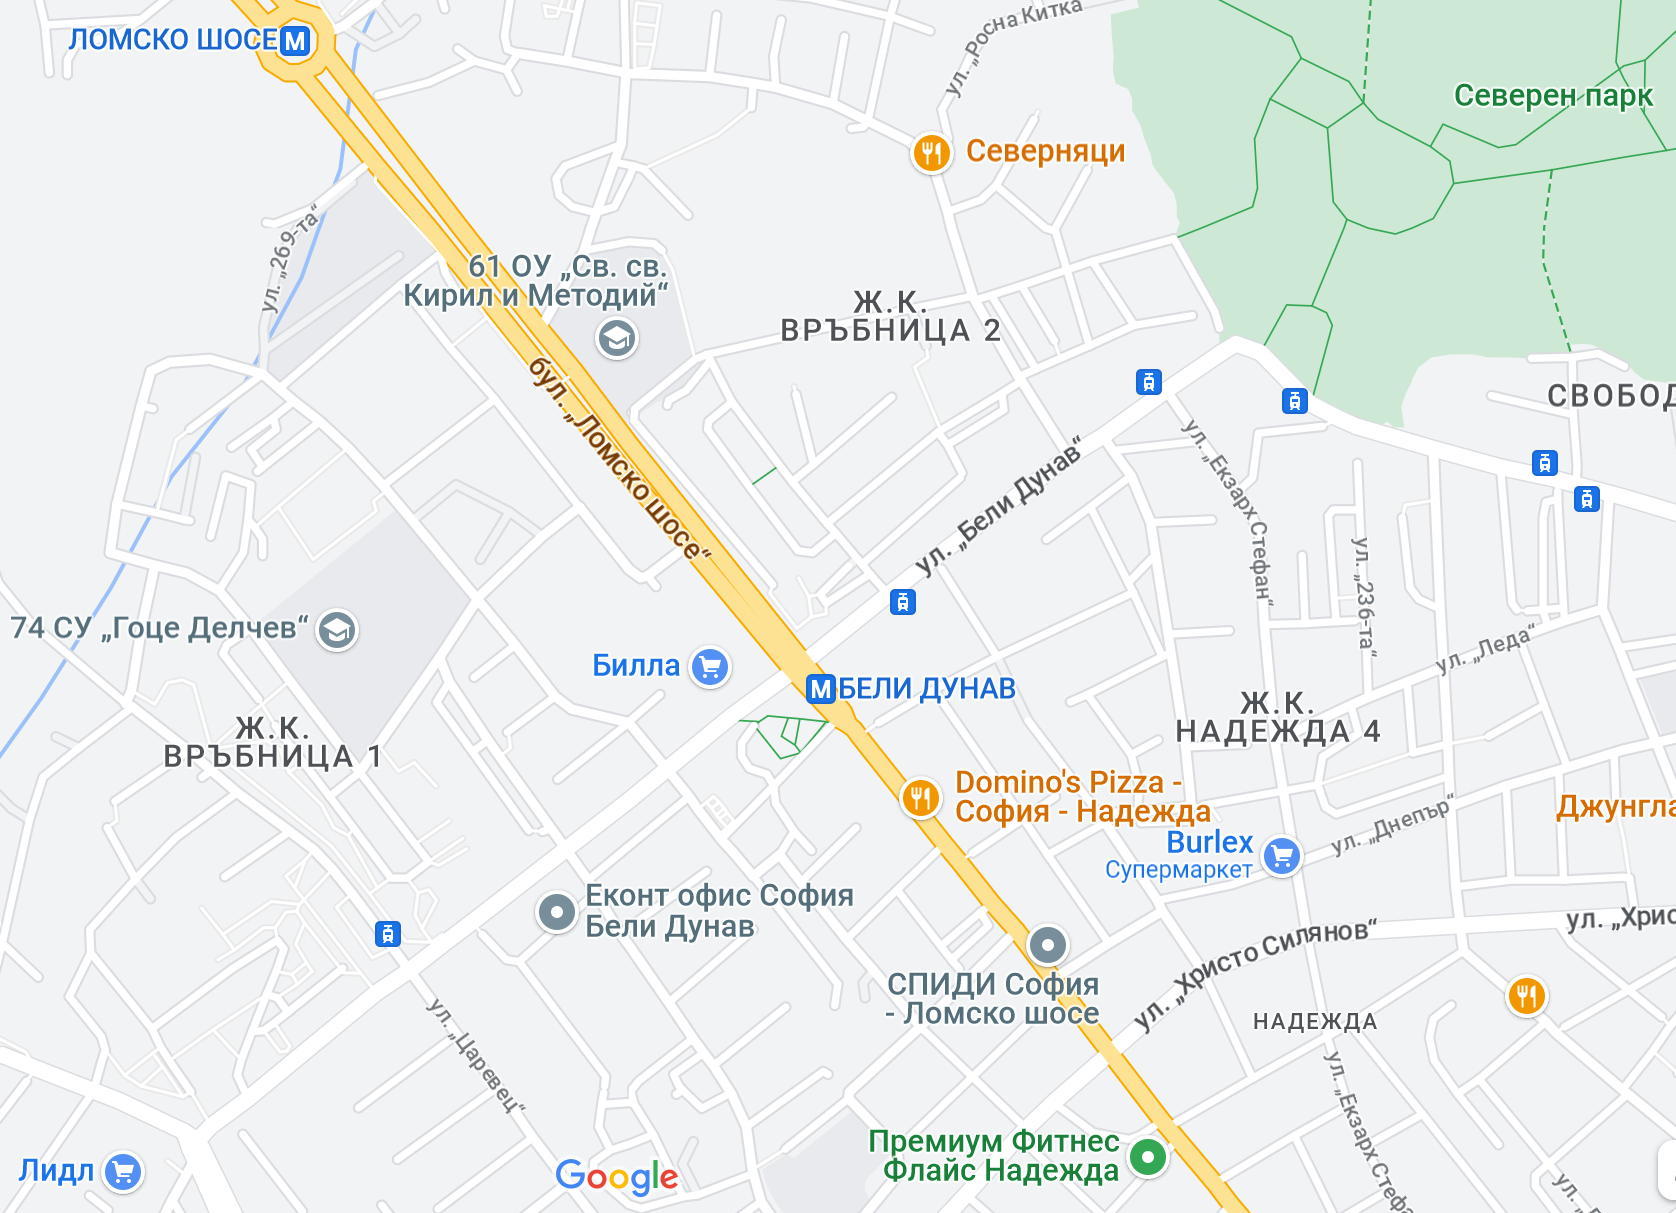
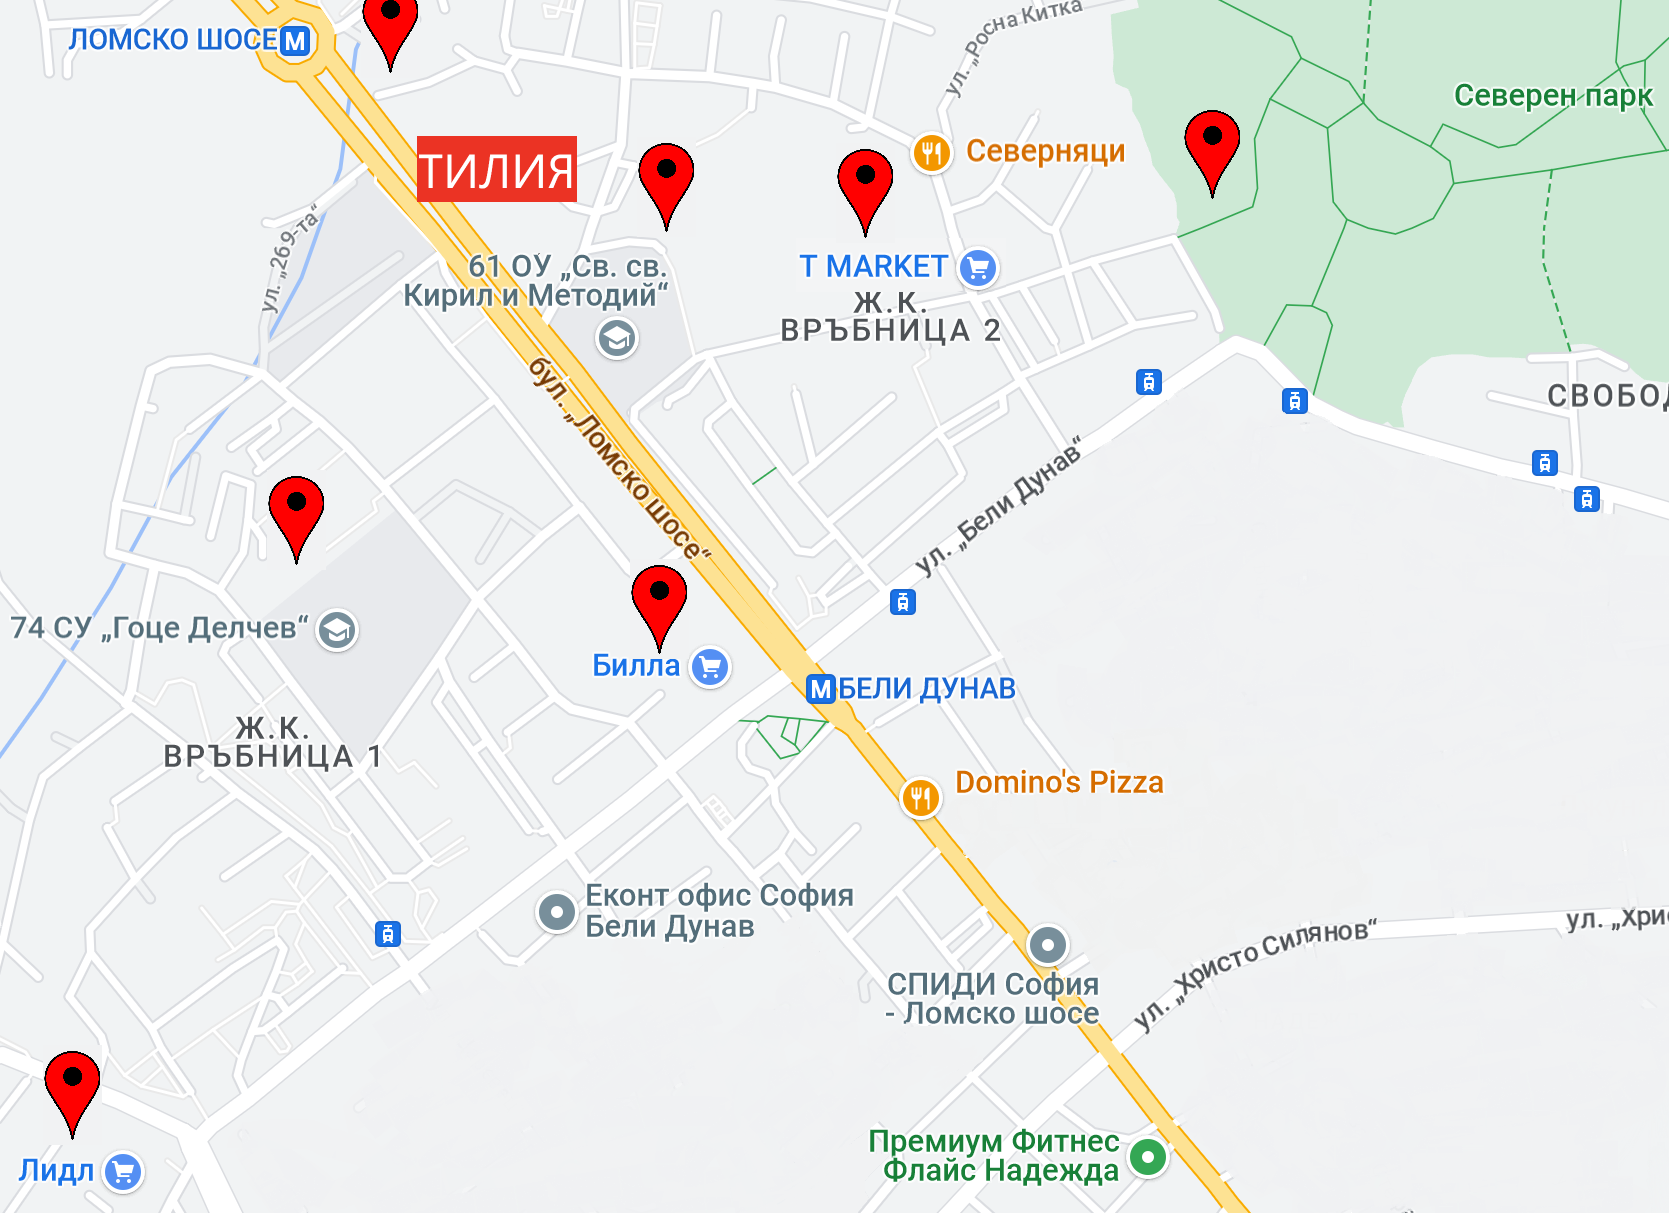
landing page updated

diff --git a/components/WalkingDistance.js b/components/WalkingDistance.js
@@ -1,5 +1,7 @@
 import { lato, noto } from "@/utils/fonts";
 import { motion } from "framer-motion"
+import Link from "next/link";
+import { HiExternalLink } from "react-icons/hi";
 
 const container = {
     hidden: {},
@@ -18,17 +20,15 @@ const treeVariant = {
 const Tree = ({ title, subtitle }) => {
     return (
         <motion.div
-            className="flex flex-col justify-center items-center h-32 w-32 lg:m-5 lg:h-48 lg:w-48 "
+            className="flex flex-col justify-center items-center h-20 w-20 m-5 lg:h-32 lg:w-32"
             variants={treeVariant}
         >
-            <div className={`flex flex-col gap-3`} >
-                <div className="text-xl lg:text-2xl">
-                    {title}
-                </div>
-                <img src="/assets/tilia-basic-tree-nobg.png" alt="" />
-                <div className="text-sm lg:text-base text-tilia-yellow-text font-extrabold">
-                    {subtitle}
-                </div>
+            <div className="text-sm lg:text-xl">
+                {title}
+            </div>
+            <img src="/assets/tilia-basic-tree-nobg.png" alt="" />
+            <div className="text-sm lg:text-base text-tilia-yellow-text font-extrabold">
+                {subtitle}
             </div>
         </motion.div>
     );
@@ -39,7 +39,7 @@ const WalkingDistance = () => {
 
         <div className="flex flex-col gap-10">
             {/* TITLE */}
-            <div className="text-tilia-yellow-text flex flex-row pb-5 gap-5">
+            <div className="text-black flex flex-row p-5 md:p-10 gap-5">
                 <motion.div
                     className={`${noto.className} text-2xl md:text-5xl lg:text-[80px]`}
                     initial="hidden"
@@ -55,20 +55,38 @@ const WalkingDistance = () => {
                 </motion.div>
 
             </div>
+
+            {/* BIG MAP */}
+            <div className=" flex flex-col justify-center items-center gap-5">
+                <Link href={'https://goo.gl/maps/aJhyFrUMrpakMc1d6'} >
+                    <div className="flex flex-row gap-1 rounded-full bg-tilia-yellow-block w-fit h-fit p-3 font-semibold sm:text-xl hover:bg-black hover:text-white transition">
+                        <div>
+                            Виж на Google Maps
+                        </div>
+                        <HiExternalLink size={16} />
+                    </div>
+                </Link>
+                <img src="/maps-big.png" alt="" className="rounded-sm shadow-lg md:h-1/2 md:w-1/2" />
+            </div>
+
+
             {/* TREES */}
             <motion.div
-                className="flex flex-wrap items-center justify-center bg-ixora-yellow gap-20"
+                className="flex flex-wrap items-center justify-center bg-tilia-gray py-10 gap-10 lg:gap-20"
                 variants={container}
                 initial="hidden"
                 whileInView="visible"
                 viewport={{ once: true, amount: 0.2 }}
             >
 
-                <Tree title={'Метро Ломско шосе'} subtitle={'1 мин пеша'} ></Tree>
-                <Tree title={'61 ОУ “Св. св. Кирил и Методий”'} subtitle={'2 мин пеша'} ></Tree>
-                <Tree title={'супермаркет БИЛА'} subtitle={'5 мин пеша'} ></Tree>
-                <Tree title={'супермаркет Т-MARKET'} subtitle={'5 мин пеша'} ></Tree>
-                <Tree title={'супермаркет Кауфланд'} subtitle={'1 км'} ></Tree>
+                <Tree title={'Метростанция Ломско шосе'} subtitle={'200 м'} ></Tree>
+                <Tree title={'61 ОУ “Св. св. Кирил и Методий”'} subtitle={'200 м'} ></Tree>
+                <Tree title={'74 ОУ “Гоце Делчев”'} subtitle={'500 м'} ></Tree>
+                <Tree title={'супермаркет БИЛА'} subtitle={'500 м'} ></Tree>
+
+                <Tree title={'супермаркет Т-MARKET'} subtitle={'700 м'} ></Tree>
+                <Tree title={'Северен парк'} subtitle={'900 м'} ></Tree>
+                <Tree title={'супермаркет ЛИДЛ'} subtitle={'1 км'} ></Tree>
                 <Tree title={'Софийски Университет'} subtitle={'6 метро спирки'} ></Tree>
 
             </motion.div>

diff --git a/components/Timeline.js b/components/Timeline.js
@@ -1,4 +1,4 @@
-import { lato } from "@/utils/fonts";
+import { lato, noto } from "@/utils/fonts";
 import { motion } from "framer-motion"
 
 const container = {
@@ -17,9 +17,9 @@ const treeVariant = {
 
 const Tree = ({ title, subtitle }) => {
     return (
-      <motion.div 
-        className="flex flex-col justify-center items-center h-32 w-32 lg:m-5 lg:h-48 lg:w-48 "  
-        variants={treeVariant}
+        <motion.div
+            className="flex flex-col justify-center items-center h-32 w-32 lg:m-5 lg:h-48 lg:w-48 "
+            variants={treeVariant}
         >
             <div className={`flex flex-col gap-3`} >
                 <div className="text-xl lg:text-2xl">
@@ -30,26 +30,45 @@ const Tree = ({ title, subtitle }) => {
                     {subtitle}
                 </div>
             </div>
-      </motion.div>
+        </motion.div>
     );
-  };
+};
 
 const Timeline = () => {
     return (
-        <motion.div
-            className="flex flex-wrap items-center justify-center bg-ixora-yellow gap-20"
-            variants={container}
-            initial="hidden"
-            whileInView="visible"
-            viewport={{ once: true, amount: 0.2 }}
-        >
+        <div className="flex flex-col gap-5">
+            {/* TITLE */}
+            <div className="text-black flex flex-row p-5 md:p-10">
+                <motion.div
+                    className={`${noto.className} text-2xl md:text-5xl lg:text-[80px]`}
+                    initial="hidden"
+                    whileInView="visible"
+                    transition={{ duration: 0.7, delay: 0.3 }}
+                    variants={{
+                        hidden: { opacity: 0, translateY: 20, skewX: -80, rotateY: 50 },
+                        visible: { opacity: 1, translateY: 0, skewX: 0, rotateY: 0 },
+                    }}
+                >
 
-            <Tree title={'Юни 2021'} subtitle={'Проектиране и регулация'} ></Tree>
-            <Tree title={'Юни 2022'} subtitle={'РС, строителна площадка и първа копка'} ></Tree>
-            <Tree title={'Март 2023'} subtitle={'Груб строеж завършен Акт 14'} ></Tree>
-            <Tree title={'Април 2024'} subtitle={'Въвеждане в експлоатация Акт 16'} ></Tree>
+                    ЕТАПИ
+                </motion.div>
 
-        </motion.div>
+            </div>
+            <motion.div
+                className="flex flex-wrap items-center justify-center bg-ixora-yellow gap-20 p-10"
+                variants={container}
+                initial="hidden"
+                whileInView="visible"
+                viewport={{ once: true, amount: 0.2 }}
+            >
+
+                <Tree title={'Юни 2021'} subtitle={'Проектиране и регулация'} ></Tree>
+                <Tree title={'Юни 2022'} subtitle={'РС, строителна площадка и първа копка'} ></Tree>
+                <Tree title={'Март 2023'} subtitle={'Груб строеж завършен Акт 14'} ></Tree>
+                <Tree title={'Април 2024'} subtitle={'Въвеждане в експлоатация Акт 16'} ></Tree>
+
+            </motion.div>
+        </div>
 
     )
 }

diff --git a/app/investor/Investor.js b/app/investor/Investor.js
@@ -16,6 +16,7 @@ import { useState } from "react";
 import { ImageSquare } from "@/components/InvestorImage";
 import PicsLightbox from "@/components/Lightbox";
 import { DaliaDescription, IxoraDescription, WestEndDescription } from "@/components/OtherProjectDescriptions";
+import { HiExternalLink } from "react-icons/hi";
 
 
 export const revalidate = 0; // revalidate this page every 60 seconds
@@ -23,8 +24,8 @@ export const revalidate = 0; // revalidate this page every 60 seconds
 
 
 export default function Investor() {
-    
-    
+
+
     // picture click modal states
     const [modalOpen, setModalOpen] = useState(false);
     const [selectedPic, setSelectedPic] = useState(null);
@@ -143,7 +144,7 @@ export default function Investor() {
                             className="flex flex-col gap-10"
                         >
                             <Link href={`https://ixorabg.com/`}>
-                                <div className="bg-tilia-white shadow-2xl">
+                                <div className="bg-tilia-white shadow-2xl flex flex-row gap-3 justify-center items-center">
                                     <div className="flex flex-row gap-2 sm:gap-5 justify-center items-center">
                                         <motion.div
                                             className={` text-tilia-yellow-text text-center font-mono  welcomeTextOnImg py-5 text-2xl md:text-5xl lg:text-[80px]`}
@@ -188,6 +189,8 @@ export default function Investor() {
                                             RESIDENCE
                                         </motion.div>
                                     </div>
+                                    <HiExternalLink size={24} className="text-tilia-yellow-text" />
+
                                 </div>
                             </Link>
                             {/* Container for images */}

diff --git a/app/Home.js b/app/Home.js
@@ -135,7 +135,7 @@ export default function Home() {
 
 
             {/* TIMELINE */}
-            <div className="bg-tilia-gray p-10">
+            <div className="bg-tilia-gray">
                 <Timeline></Timeline>
             </div>
 
@@ -151,15 +151,10 @@ export default function Home() {
 
 
             {/* NEXT TO METRO */}
-            <div className="bg-tilia-gray p-10">
+            <div className="bg-white">
                 <WalkingDistance></WalkingDistance>
             </div>
 
-
-            {/* LOCATION */}
-            <>
-                <Maps></Maps>
-            </>
 
         </div>
     )
